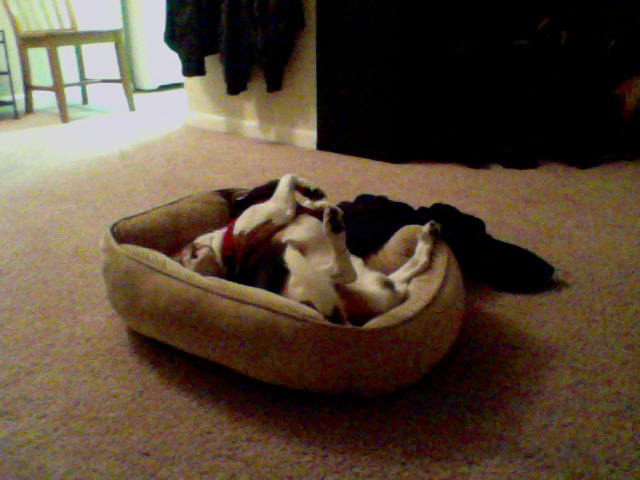
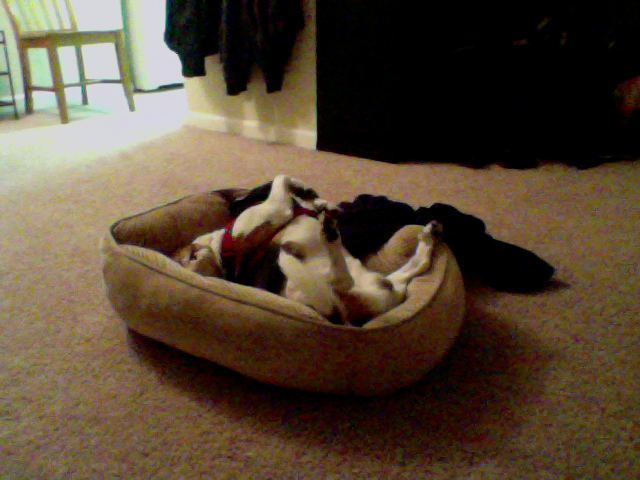
update at Month05Day07Time21:09

diff --git a/index.html b/index.html
@@ -39,8 +39,8 @@
       <!-- Example row of columns -->
       <div class="row">
         <div class="col-md-4">
-	<p>This picture was updated at Month05Day07Time21:08</p>
-		<img src="3_pic.png" />
+	<p>This picture was updated at Month05Day07Time21:09</p>
+		<img src="7_pic.png" />
         </div>
       </div>
 
